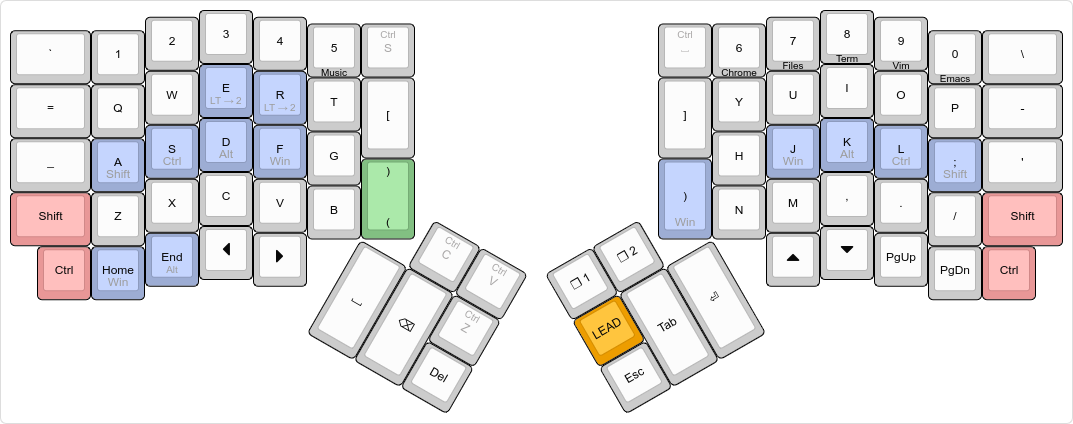
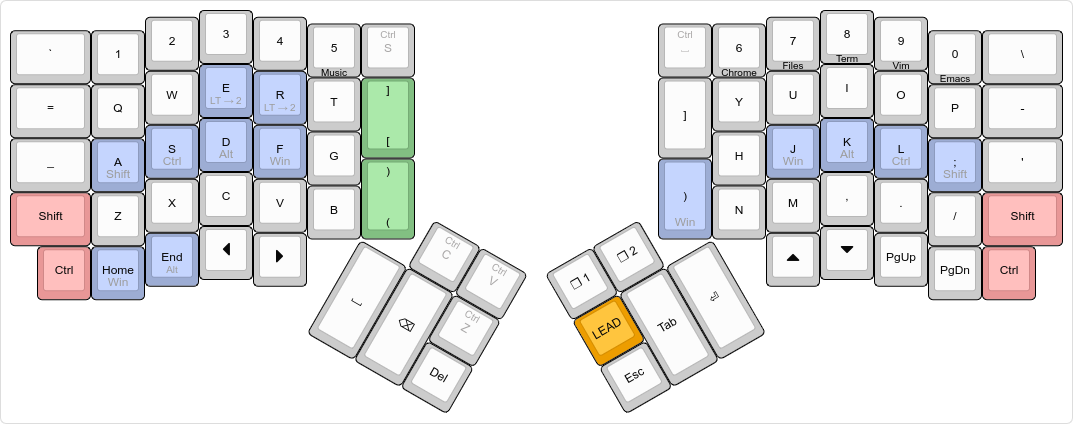
Switched square brackets to double-tap as well.

Changed region(s): [[0.3383, 0.184, 0.3998, 0.3679]]

diff --git a/keymap.c b/keymap.c
@@ -28,13 +28,15 @@ enum {
   TD_NEXT_PREV_TRACK = 0,
   // left and right paren
   TD_PARENS,
+  // left and right square brackets
+  TD_BRACKETS,
 };
 
 const uint16_t PROGMEM keymaps[][MATRIX_ROWS][MATRIX_COLS] = {
   [BASE] = KEYMAP(
     // left hand
     KC_GRAVE, KC_1, KC_2, KC_3, KC_4, KC_5, LCTL(KC_S),
-    KC_EQUAL, KC_Q, KC_W, LT(1, KC_E), LT(2, KC_R), KC_T, KC_LBRACKET,
+    KC_EQUAL, KC_Q, KC_W, LT(1, KC_E), LT(2, KC_R), KC_T, TD(TD_BRACKETS),
     KC_UNDS, SFT_T(KC_A), CTL_T(KC_S), ALT_T(KC_D), GUI_T(KC_F), KC_G,
     OSM(MOD_LSFT), KC_Z, KC_X, KC_C, KC_V, KC_B, TD(TD_PARENS),
     OSM(MOD_LCTL), GUI_T(KC_HOME), ALT_T(KC_END), KC_LEFT, KC_RIGHT,
@@ -162,6 +164,8 @@ qk_tap_dance_action_t tap_dance_actions[] = {
   [TD_NEXT_PREV_TRACK]  = ACTION_TAP_DANCE_DOUBLE(KC_MEDIA_NEXT_TRACK, KC_MEDIA_PREV_TRACK),
   // Tap once for left paren, twice for right paren
   [TD_PARENS]  = ACTION_TAP_DANCE_DOUBLE(KC_LEFT_PAREN, KC_RIGHT_PAREN),
+  // Tap once for left square bracket, twice for right square bracket
+  [TD_BRACKETS]  = ACTION_TAP_DANCE_DOUBLE(KC_LBRC, KC_RBRC),
 };
 
 // Runs just one time when the keyboard initializes.

diff --git a/README.md b/README.md
@@ -18,7 +18,7 @@ Some of the things in the layout only work under Linux.
 * The blue `Shift`, `Ctrl`, `Alt` and `Win` modifiers are mod-tap keys. When tapped, they perform as expected. When held, they function as the respective modifiers.
 * The `Esc` key also doubles as a one-shot cancel key: if tapped while any of the one-shot modifiers are in-flight (as in, single-tapped, and not expired yet), it cancels all one-shot modifiers. Otherwise it sends the usual keycode.
 * The number keys with lower legends run the given program in conjunction with `Win`. This is done via a [custom application switcher / launcher][wintool]. E.g. `Win 6` either launches chrome or alt-tabs between currently running chrome instances
-* The green `(` key produces a `(` when single tapped and `)` when double-tapped.
+* The green `(` and `[` keys produce the left brackets / parens when single-tapped and their right equivalents when double-tapped.
 * The **Lead** key allows me to type in a sequence of keys, and trigger some actions:
   - `LEAD s` types `¯\_(ツ)_/¯`
   - `LEAD y` types `\o/`.
